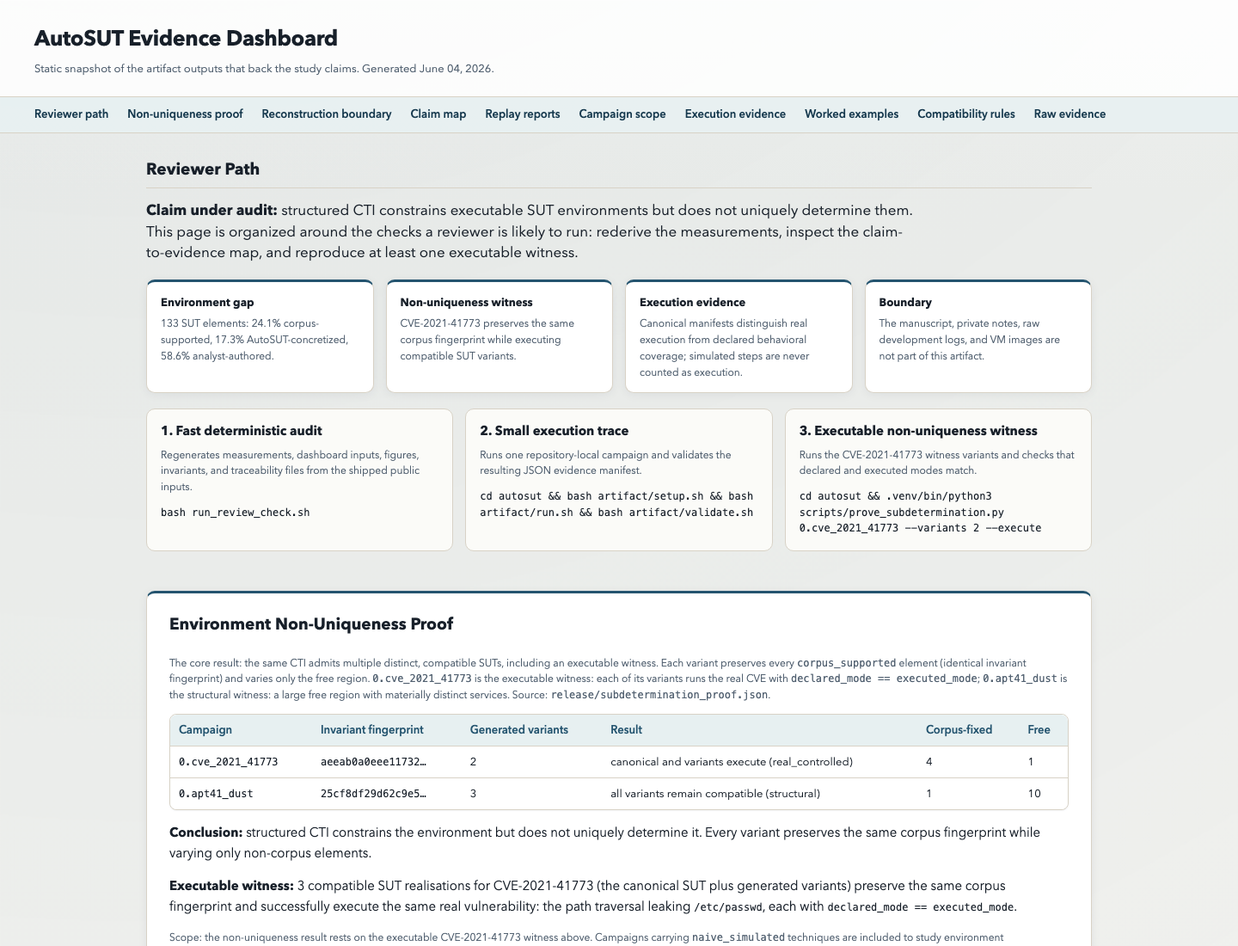
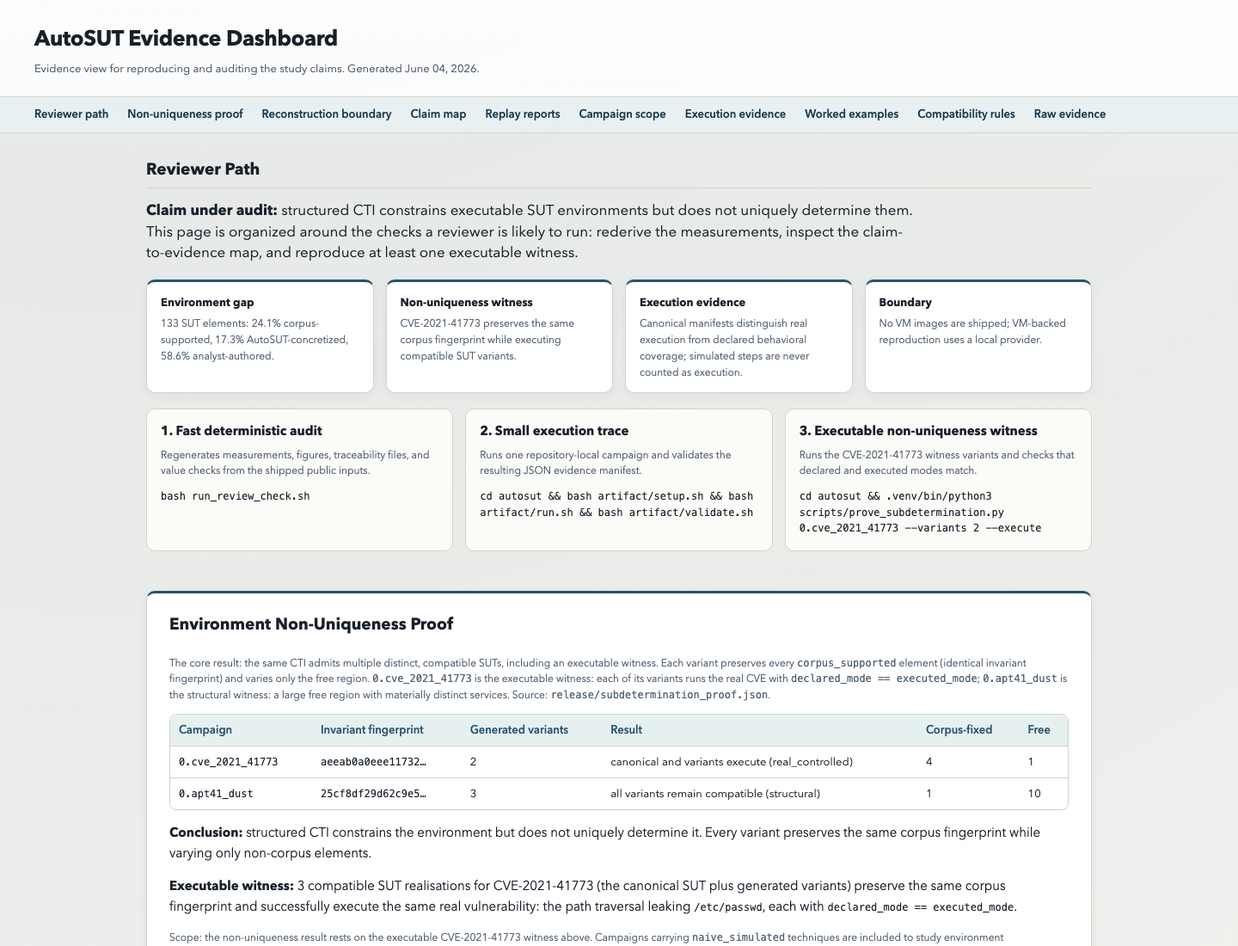
Tighten reviewer dashboard signal

diff --git a/autosut/release/dashboard/index.html b/autosut/release/dashboard/index.html
@@ -9,7 +9,7 @@
 <body>
 <header>
   <h1>AutoSUT Evidence Dashboard</h1>
-  <p>Static snapshot of the artifact outputs that back the study claims.
+  <p>Evidence view for reproducing and auditing the study claims.
      Generated June 04, 2026.</p>
 </header>
 <nav>
@@ -52,15 +52,15 @@
     </div>
     <div class='overview-card'>
       <strong>Boundary</strong>
-      <span>The manuscript, private notes, raw development logs, and VM images
-        are not part of this artifact.</span>
+      <span>No VM images are shipped; VM-backed reproduction uses a local
+        provider.</span>
     </div>
   </div>
   <div class='recipe-grid'>
     <div class='recipe-card'>
       <strong>1. Fast deterministic audit</strong>
-      <p>Regenerates measurements, dashboard inputs, figures, invariants, and
-        traceability files from the shipped public inputs.</p>
+      <p>Regenerates measurements, figures, traceability files, and value
+        checks from the shipped public inputs.</p>
       <code>bash run_review_check.sh</code>
     </div>
     <div class='recipe-card'>
@@ -96,15 +96,15 @@
     the executable environment; the rest must be reconstructed. Every concrete
     SUT element is tagged by where it came from, then rolled up into a dimension
     &times; source table: the fixed (corpus) vs free (reconstructed) partition
-    that the non-uniqueness result exploits. Computed live from <code>orchestrator/catalog.py</code>
-    (deterministic, no live run required).</p>
-  <p class='lead'>Of the <strong>133</strong> concrete SUT elements materialised across <strong>19</strong> campaign SUT profiles, <strong>24.1%</strong> is anchored in the CTI corpus, <strong>17.3%</strong> is an AutoSUT concretization of an under-specified corpus signal, and <strong>58.6%</strong> is an explicit analyst lab choice the corpus does not constrain.</p><h3>Dimension &times; source (global)</h3><p class='muted'>Each tagged element belongs to exactly one dimension. This is the environment-gap measurement: dimension by dimension, how much of the executable environment public cyber knowledge actually supports.</p><div class='table-wrap'><table><thead><tr><th>Dimension</th><th>Corpus</th><th>AutoSUT</th><th>Analyst</th><th>Total</th></tr></thead><tbody><tr><td class=''>Platform</td><td class='numeric'>25</td><td class='numeric'>0</td><td class='numeric'>0</td><td class='numeric'>25</td></tr><tr><td class=''>Software</td><td class='numeric'>1</td><td class='numeric'>0</td><td class='numeric'>19</td><td class='numeric'>20</td></tr><tr><td class=''>Vulnerability</td><td class='numeric'>2</td><td class='numeric'>1</td><td class='numeric'>0</td><td class='numeric'>3</td></tr><tr><td class=''>Credentials</td><td class='numeric'>1</td><td class='numeric'>21</td><td class='numeric'>0</td><td class='numeric'>22</td></tr><tr><td class=''>Exposures</td><td class='numeric'>3</td><td class='numeric'>1</td><td class='numeric'>24</td><td class='numeric'>28</td></tr><tr><td class=''>Artifacts</td><td class='numeric'>0</td><td class='numeric'>0</td><td class='numeric'>32</td><td class='numeric'>32</td></tr><tr><td class=''>Topology</td><td class='numeric'>0</td><td class='numeric'>0</td><td class='numeric'>3</td><td class='numeric'>3</td></tr><tr><td class=''>All</td><td class='numeric'>32 (24.1%)</td><td class='numeric'>23 (17.3%)</td><td class='numeric'>78 (58.6%)</td><td class='numeric'>133</td></tr></tbody></table></div><h3>Per-campaign breakdown</h3><div class='table-wrap'><table><thead><tr><th>Campaign</th><th>Elements</th><th>Corpus</th><th>AutoSUT</th><th>Analyst</th></tr></thead><tbody><tr><td class=''>0.shadowray</td><td class='numeric'>6</td><td class='numeric'>4 (66.7%)</td><td class='numeric'>0 (0.0%)</td><td class='numeric'>2 (33.3%)</td></tr><tr><td class=''>0.c0010</td><td class='numeric'>8</td><td class='numeric'>1 (12.5%)</td><td class='numeric'>1 (12.5%)</td><td class='numeric'>6 (75.0%)</td></tr><tr><td class=''>0.c0011</td><td class='numeric'>7</td><td class='numeric'>1 (14.3%)</td><td class='numeric'>1 (14.3%)</td><td class='numeric'>5 (71.4%)</td></tr><tr><td class=''>0.c0012</td><td class='numeric'>4</td><td class='numeric'>1 (25.0%)</td><td class='numeric'>1 (25.0%)</td><td class='numeric'>2 (50.0%)</td></tr><tr><td class=''>0.c0013</td><td class='numeric'>6</td><td class='numeric'>1 (16.7%)</td><td class='numeric'>1 (16.7%)</td><td class='numeric'>4 (66.7%)</td></tr><tr><td class=''>0.c0015</td><td class='numeric'>6</td><td class='numeric'>1 (16.7%)</td><td class='numeric'>1 (16.7%)</td><td class='numeric'>4 (66.7%)</td></tr><tr><td class=''>0.c0017</td><td class='numeric'>5</td><td class='numeric'>1 (20.0%)</td><td class='numeric'>1 (20.0%)</td><td class='numeric'>3 (60.0%)</td></tr><tr><td class=''>0.c0026</td><td class='numeric'>6</td><td class='numeric'>1 (16.7%)</td><td class='numeric'>1 (16.7%)</td><td class='numeric'>4 (66.7%)</td></tr><tr><td class=''>0.apt41_dust</td><td class='numeric'>11</td><td class='numeric'>1 (9.1%)</td><td class='numeric'>1 (9.1%)</td><td class='numeric'>9 (81.8%)</td></tr><tr><td class=''>0.apt41_dust_full</td><td class='numeric'>6</td><td class='numeric'>1 (16.7%)</td><td class='numeric'>1 (16.7%)</td><td class='numeric'>4 (66.7%)</td></tr><tr><td class=''>0.costaricto</td><td class='numeric'>9</td><td class='numeric'>1 (11.1%)</td><td class='numeric'>1 (11.1%)</td><td class='numeric'>7 (77.8%)</td></tr><tr><td class=''>0.outer_space</td><td class='numeric'>9</td><td class='numeric'>1 (11.1%)</td><td class='numeric'>1 (11.1%)</td><td class='numeric'>7 (77.8%)</td></tr><tr><td class=''>0.operation_midnighteclipse</td><td class='numeric'>5</td><td class='numeric'>3 (60.0%)</td><td class='numeric'>1 (20.0%)</td><td class='numeric'>1 (20.0%)</td></tr><tr><td class=''>0.salesforce_data_exfiltration</td><td class='numeric'>6</td><td class='numeric'>1 (16.7%)</td><td class='numeric'>4 (66.7%)</td><td class='numeric'>1 (16.7%)</td></tr><tr><td class=''>0.caldera_linux_demo</td><td class='numeric'>7</td><td class='numeric'>1 (14.3%)</td><td class='numeric'>1 (14.3%)</td><td class='numeric'>5 (71.4%)</td></tr><tr><td class=''>0.fin6_emulation</td><td class='numeric'>7</td><td class='numeric'>1 (14.3%)</td><td class='numeric'>1 (14.3%)</td><td class='numeric'>5 (71.4%)</td></tr><tr><td class=''>0.dmz_segmentation_demo</td><td class='numeric'>13</td><td class='numeric'>4 (30.8%)</td><td class='numeric'>3 (23.1%)</td><td class='numeric'>6 (46.2%)</td></tr><tr><td class=''>0.pivot_demo</td><td class='numeric'>7</td><td class='numeric'>3 (42.9%)</td><td class='numeric'>2 (28.6%)</td><td class='numeric'>2 (28.6%)</td></tr><tr><td class=''>0.cve_2021_41773</td><td class='numeric'>5</td><td class='numeric'>4 (80.0%)</td><td class='numeric'>0 (0.0%)</td><td class='numeric'>1 (20.0%)</td></tr></tbody></table></div><p class='muted'><strong>Corpus</strong> = anchored in CTI/NVD/ATT&amp;CK evidence (a CVE-pinned product+version, the disclosed CVE, the documented exploit port, or the OS platform family). <strong>AutoSUT</strong> = AutoSUT concretized an under-specified corpus signal (the corpus implies <em>a</em> credential exists; AutoSUT picks the literal pair) or a named-product surrogate with no disclosed CVE. <strong>Analyst</strong> = no corpus signal; pure lab construction (generic inherited services, topology zones, decoy files). Provenance is <strong>counted, never computed</strong>: the aggregator only tallies tags set in <code>catalog.py</code>; the sole derived tags are definitional (a real CVE id <em>is</em> corpus evidence; an OS family <em>is</em> an ATT&amp;CK platform).</p><p class='muted'>Full artifacts (same computation): <a href='data/ENVIRONMENT_PROVENANCE.md'><code>ENVIRONMENT_PROVENANCE.md</code></a>, <a href='data/support_matrix.csv'><code>support_matrix.csv</code></a>, <a href='data/environment_provenance.json'><code>environment_provenance.json</code></a> (per-element audit trail; every count traces to one concrete SUT element).</p>
+    that the non-uniqueness result exploits. Computed deterministically from
+    shipped provenance annotations; no live campaign run is required.</p>
+  <p class='lead'>Of the <strong>133</strong> concrete SUT elements materialised across <strong>19</strong> campaign SUT profiles, <strong>24.1%</strong> is anchored in the CTI corpus, <strong>17.3%</strong> is an AutoSUT concretization of an under-specified corpus signal, and <strong>58.6%</strong> is an explicit analyst lab choice the corpus does not constrain.</p><h3>Dimension &times; source (global)</h3><p class='muted'>Each tagged element belongs to exactly one dimension. This is the environment-gap measurement: dimension by dimension, how much of the executable environment public cyber knowledge actually supports.</p><div class='table-wrap'><table><thead><tr><th>Dimension</th><th>Corpus</th><th>AutoSUT</th><th>Analyst</th><th>Total</th></tr></thead><tbody><tr><td class=''>Platform</td><td class='numeric'>25</td><td class='numeric'>0</td><td class='numeric'>0</td><td class='numeric'>25</td></tr><tr><td class=''>Software</td><td class='numeric'>1</td><td class='numeric'>0</td><td class='numeric'>19</td><td class='numeric'>20</td></tr><tr><td class=''>Vulnerability</td><td class='numeric'>2</td><td class='numeric'>1</td><td class='numeric'>0</td><td class='numeric'>3</td></tr><tr><td class=''>Credentials</td><td class='numeric'>1</td><td class='numeric'>21</td><td class='numeric'>0</td><td class='numeric'>22</td></tr><tr><td class=''>Exposures</td><td class='numeric'>3</td><td class='numeric'>1</td><td class='numeric'>24</td><td class='numeric'>28</td></tr><tr><td class=''>Artifacts</td><td class='numeric'>0</td><td class='numeric'>0</td><td class='numeric'>32</td><td class='numeric'>32</td></tr><tr><td class=''>Topology</td><td class='numeric'>0</td><td class='numeric'>0</td><td class='numeric'>3</td><td class='numeric'>3</td></tr><tr><td class=''>All</td><td class='numeric'>32 (24.1%)</td><td class='numeric'>23 (17.3%)</td><td class='numeric'>78 (58.6%)</td><td class='numeric'>133</td></tr></tbody></table></div><h3>Per-campaign breakdown</h3><div class='table-wrap'><table><thead><tr><th>Campaign</th><th>Elements</th><th>Corpus</th><th>AutoSUT</th><th>Analyst</th></tr></thead><tbody><tr><td class=''>0.shadowray</td><td class='numeric'>6</td><td class='numeric'>4 (66.7%)</td><td class='numeric'>0 (0.0%)</td><td class='numeric'>2 (33.3%)</td></tr><tr><td class=''>0.c0010</td><td class='numeric'>8</td><td class='numeric'>1 (12.5%)</td><td class='numeric'>1 (12.5%)</td><td class='numeric'>6 (75.0%)</td></tr><tr><td class=''>0.c0011</td><td class='numeric'>7</td><td class='numeric'>1 (14.3%)</td><td class='numeric'>1 (14.3%)</td><td class='numeric'>5 (71.4%)</td></tr><tr><td class=''>0.c0012</td><td class='numeric'>4</td><td class='numeric'>1 (25.0%)</td><td class='numeric'>1 (25.0%)</td><td class='numeric'>2 (50.0%)</td></tr><tr><td class=''>0.c0013</td><td class='numeric'>6</td><td class='numeric'>1 (16.7%)</td><td class='numeric'>1 (16.7%)</td><td class='numeric'>4 (66.7%)</td></tr><tr><td class=''>0.c0015</td><td class='numeric'>6</td><td class='numeric'>1 (16.7%)</td><td class='numeric'>1 (16.7%)</td><td class='numeric'>4 (66.7%)</td></tr><tr><td class=''>0.c0017</td><td class='numeric'>5</td><td class='numeric'>1 (20.0%)</td><td class='numeric'>1 (20.0%)</td><td class='numeric'>3 (60.0%)</td></tr><tr><td class=''>0.c0026</td><td class='numeric'>6</td><td class='numeric'>1 (16.7%)</td><td class='numeric'>1 (16.7%)</td><td class='numeric'>4 (66.7%)</td></tr><tr><td class=''>0.apt41_dust</td><td class='numeric'>11</td><td class='numeric'>1 (9.1%)</td><td class='numeric'>1 (9.1%)</td><td class='numeric'>9 (81.8%)</td></tr><tr><td class=''>0.apt41_dust_full</td><td class='numeric'>6</td><td class='numeric'>1 (16.7%)</td><td class='numeric'>1 (16.7%)</td><td class='numeric'>4 (66.7%)</td></tr><tr><td class=''>0.costaricto</td><td class='numeric'>9</td><td class='numeric'>1 (11.1%)</td><td class='numeric'>1 (11.1%)</td><td class='numeric'>7 (77.8%)</td></tr><tr><td class=''>0.outer_space</td><td class='numeric'>9</td><td class='numeric'>1 (11.1%)</td><td class='numeric'>1 (11.1%)</td><td class='numeric'>7 (77.8%)</td></tr><tr><td class=''>0.operation_midnighteclipse</td><td class='numeric'>5</td><td class='numeric'>3 (60.0%)</td><td class='numeric'>1 (20.0%)</td><td class='numeric'>1 (20.0%)</td></tr><tr><td class=''>0.salesforce_data_exfiltration</td><td class='numeric'>6</td><td class='numeric'>1 (16.7%)</td><td class='numeric'>4 (66.7%)</td><td class='numeric'>1 (16.7%)</td></tr><tr><td class=''>0.caldera_linux_demo</td><td class='numeric'>7</td><td class='numeric'>1 (14.3%)</td><td class='numeric'>1 (14.3%)</td><td class='numeric'>5 (71.4%)</td></tr><tr><td class=''>0.fin6_emulation</td><td class='numeric'>7</td><td class='numeric'>1 (14.3%)</td><td class='numeric'>1 (14.3%)</td><td class='numeric'>5 (71.4%)</td></tr><tr><td class=''>0.dmz_segmentation_demo</td><td class='numeric'>13</td><td class='numeric'>4 (30.8%)</td><td class='numeric'>3 (23.1%)</td><td class='numeric'>6 (46.2%)</td></tr><tr><td class=''>0.pivot_demo</td><td class='numeric'>7</td><td class='numeric'>3 (42.9%)</td><td class='numeric'>2 (28.6%)</td><td class='numeric'>2 (28.6%)</td></tr><tr><td class=''>0.cve_2021_41773</td><td class='numeric'>5</td><td class='numeric'>4 (80.0%)</td><td class='numeric'>0 (0.0%)</td><td class='numeric'>1 (20.0%)</td></tr></tbody></table></div><p class='muted'><strong>Corpus</strong> = anchored in CTI/NVD/ATT&amp;CK evidence (a CVE-pinned product+version, the disclosed CVE, the documented exploit port, or the OS platform family). <strong>AutoSUT</strong> = AutoSUT concretized an under-specified corpus signal (the corpus implies <em>a</em> credential exists; AutoSUT picks the literal pair) or a named-product surrogate with no disclosed CVE. <strong>Analyst</strong> = no corpus signal; pure lab construction (generic inherited services, topology zones, decoy files). Provenance tags are explicit: this dashboard aggregates those tags and does not infer new provenance categories. The only derived tags are definitional (a real CVE id <em>is</em> corpus evidence; an OS family <em>is</em> an ATT&amp;CK platform).</p><p class='muted'>Audit files: <a href='data/ENVIRONMENT_PROVENANCE.md'><code>ENVIRONMENT_PROVENANCE.md</code></a>, <a href='data/support_matrix.csv'><code>support_matrix.csv</code></a>, <a href='data/environment_provenance.json'><code>environment_provenance.json</code></a> (per-element audit trail; every count traces to one concrete SUT element).</p>
 </section>
 <section id='findings'>
   <h2>Claim-To-Evidence Map</h2>
-  <p class='muted'>Each card shows a study claim, the macros that produce its
-    numbers, and the CSV files that back the macros. Click any file name to
-    open the raw evidence under <code>data/</code>.</p>
+  <p class='muted'>Each card shows a study claim, the reported values, and the
+    CSV files that back them. Click any file name to open the raw evidence
+    under <code>data/</code>.</p>
 
 <div class='finding'>
   <div class='finding-head'>
@@ -173,20 +173,16 @@
 </section>
 <section id='replay'>
   <h2>End-to-End Replay Reports</h2>
-  <p class='muted'>These are the batch-run reports a reviewer gets when
-    re-executing implemented campaigns. They are separate from curated
-    release evidence: a replay report is the latest local execution result,
-    while the audited-run section below shows the stable evidence bundled for
-    claim inspection. The dashboard separates publishable complete runs from
-    development attempts: audited complete runs back the reviewer-facing claim
-    surface, while replay scripts emit incremental TSV and JSON reports for new
-    executions.</p>
+  <p class='muted'>Replay reports summarize completed campaign reruns. They are
+    separate from the audited runs below: reruns show what a reviewer executed
+    locally, while audited runs are the stable evidence shipped for claim
+    inspection. New reruns emit TSV and JSON reports for inspection.</p>
   <div class='table-wrap wide'><table><thead><tr><th>Report</th><th>Status</th><th>Campaigns</th><th>Planned steps</th><th>Elapsed</th><th>TSV</th><th>JSON</th></tr></thead><tbody><tr><td class='mono'>orchestrated_replay_full_19.tsv</td><td>PASS</td><td class='numeric'>19</td><td class='numeric'>165/165</td><td class='numeric'>1402.5s</td><td><a href='data/replay_reports/orchestrated_replay_full_19.tsv' title='data/replay_reports/orchestrated_replay_full_19.tsv'><code>TSV</code></a></td><td><a href='data/replay_reports/orchestrated_replay_full_19.json' title='data/replay_reports/orchestrated_replay_full_19.json'><code>JSON</code></a></td></tr></tbody></table></div>
 </section>
 <section id='scope'>
   <h2>Campaign Scope Sanity Check</h2>
   <p class='muted'>This table prevents a common denominator error. AutoSUT
-    replay counts are planned campaign/SUT steps from the artifact manifest;
+    replay counts are planned campaign/SUT steps from released manifests;
     they are not automatically the full set of ATT&amp;CK techniques linked to
     a MITRE campaign object. For Cxxxx runs, the table compares the planned
     replay against the frozen Enterprise ATT&amp;CK bundle. Source:
@@ -198,9 +194,9 @@
   <p class='muted'>
     Only audited complete runs are shown here: every planned step completed
     and the manifest, summary, and fidelity rubric are all present. Selection
-    criteria are copied into <code>data/canonical_runs.json</code>. Partial,
-    empty, or superseded development runs are excluded, so experimental and
-    publishable evidence are never mixed. Execution is split into realism tiers:
+    criteria are recorded in <code>data/canonical_runs.json</code>. Partial,
+    empty, or superseded runs are excluded and are not used for claims.
+    Execution is split into realism tiers:
     <code>real_controlled</code>, <code>caldera_driven</code>, and
     <code>atomic_red_team</code> are real executions (a command ran, an
     operation fired); <strong>simulated</strong> is declared behavioral
@@ -208,7 +204,7 @@
   </p>
   <p class='muted'>What each mode lets a reviewer conclude:</p>
   <div class='table-wrap wide'><table><thead><tr><th>Execution mode</th><th>Tier</th><th>Claim it licenses</th></tr></thead><tbody><tr><td class='mono'>real_controlled</td><td class=''>real</td><td class=''>A bounded command, procedure, or vulnerability mechanism ran against the live SUT and left a verifiable effect. CVE witnesses identify when that effect is an actual exploit.</td></tr><tr><td class='mono'>caldera_driven</td><td class=''>real</td><td class=''>The adversary procedure was dispatched by the MITRE Caldera C2 and the operation fired against the SUT.</td></tr><tr><td class='mono'>atomic_red_team</td><td class=''>real</td><td class=''>The technique ran as a mediated Atomic Red Team test.</td></tr><tr><td class='mono'>naive_simulated</td><td class=''>declared coverage</td><td class=''>Behavioral representation only: the effect is asserted, not executed. Never counted as execution evidence.</td></tr></tbody></table></div>
-  <p class='realism-summary'>Across these <strong>19</strong> canonical run(s): <strong>89/165</strong> planned steps are real executions (real_controlled / caldera_driven / atomic_red_team), and <strong>76/165</strong> are <span class='sim'>simulated</span>: recorded as declared coverage, not counted as execution evidence.</p><article class='run-card'><h3>0.apt41_dust <span class='muted'>· 0.apt41_dust_20260603_193334</span></h3><p><strong>23/23</strong> planned steps completed.</p><p><strong>Execution realism:</strong> <strong>14/23</strong> really executed <span class='muted'>(atomic_red_team: 6, real_controlled: 8)</span> &middot; <span class='sim'>9/23 simulated</span> <span class='muted'>(declared coverage, not executed)</span></p><p><strong>Fidelity rubric</strong> (five-question, per technique): adapted: 14, inspired: 9; 23/23 consistent</p><p class='muted'>Evidence manifest: <a href='data/evidence/0.apt41_dust_20260603_193334/manifest.json'><code>data/evidence/0.apt41_dust_20260603_193334/manifest.json</code></a></p></article>
+  <p class='realism-summary'>Across these <strong>19</strong> audited run(s): <strong>89/165</strong> planned steps are real executions (real_controlled / caldera_driven / atomic_red_team), and <strong>76/165</strong> are <span class='sim'>simulated</span>: recorded as declared coverage, not counted as execution evidence.</p><article class='run-card'><h3>0.apt41_dust <span class='muted'>· 0.apt41_dust_20260603_193334</span></h3><p><strong>23/23</strong> planned steps completed.</p><p><strong>Execution realism:</strong> <strong>14/23</strong> really executed <span class='muted'>(atomic_red_team: 6, real_controlled: 8)</span> &middot; <span class='sim'>9/23 simulated</span> <span class='muted'>(declared coverage, not executed)</span></p><p><strong>Fidelity rubric</strong> (five-question, per technique): adapted: 14, inspired: 9; 23/23 consistent</p><p class='muted'>Evidence manifest: <a href='data/evidence/0.apt41_dust_20260603_193334/manifest.json'><code>data/evidence/0.apt41_dust_20260603_193334/manifest.json</code></a></p></article>
 <article class='run-card'><h3>0.apt41_dust_full <span class='muted'>· 0.apt41_dust_full_20260603_193427</span></h3><p><strong>10/10</strong> planned steps completed.</p><p><strong>Execution realism:</strong> <strong>9/10</strong> really executed <span class='muted'>(atomic_red_team: 5, real_controlled: 4)</span> &middot; <span class='sim'>1/10 simulated</span> <span class='muted'>(declared coverage, not executed)</span></p><p><strong>Fidelity rubric</strong> (five-question, per technique): adapted: 9, inspired: 1; 10/10 consistent</p><p class='muted'>Evidence manifest: <a href='data/evidence/0.apt41_dust_full_20260603_193427/manifest.json'><code>data/evidence/0.apt41_dust_full_20260603_193427/manifest.json</code></a></p></article>
 <article class='run-card'><h3>0.c0010 <span class='muted'>· 0.c0010_20260603_192801</span></h3><p><strong>9/9</strong> planned steps completed.</p><p><strong>Execution realism:</strong> <strong>3/9</strong> really executed <span class='muted'>(atomic_red_team: 1, real_controlled: 2)</span> &middot; <span class='sim'>6/9 simulated</span> <span class='muted'>(declared coverage, not executed)</span></p><p><strong>Fidelity rubric</strong> (five-question, per technique): adapted: 3, inspired: 6; 9/9 consistent</p><p class='muted'>Evidence manifest: <a href='data/evidence/0.c0010_20260603_192801/manifest.json'><code>data/evidence/0.c0010_20260603_192801/manifest.json</code></a></p></article>
 <article class='run-card'><h3>0.c0011 <span class='muted'>· 0.c0011_20260603_192838</span></h3><p><strong>11/11</strong> planned steps completed.</p><p><strong>Execution realism:</strong> <strong>2/11</strong> really executed <span class='muted'>(real_controlled: 2)</span> &middot; <span class='sim'>9/11 simulated</span> <span class='muted'>(declared coverage, not executed)</span></p><p><strong>Fidelity rubric</strong> (five-question, per technique): adapted: 2, inspired: 9; 11/11 consistent</p><p class='muted'>Evidence manifest: <a href='data/evidence/0.c0011_20260603_192838/manifest.json'><code>data/evidence/0.c0011_20260603_192838/manifest.json</code></a></p></article>
@@ -249,7 +245,7 @@
 </section>
 </main>
 <footer>
-  Reproduce this dashboard:
+  Dashboard regeneration:
   <code>python3 scripts/build_reviewer_dashboard.py</code>.
   Validate every macro: <code>bash run_review_check.sh</code>.
 </footer>

diff --git a/autosut/scripts/build_reviewer_dashboard.py b/autosut/scripts/build_reviewer_dashboard.py
@@ -542,15 +542,15 @@ def render_audit_overview(merged) -> str:
     </div>
     <div class='overview-card'>
       <strong>Boundary</strong>
-      <span>The manuscript, private notes, raw development logs, and VM images
-        are not part of this artifact.</span>
+      <span>No VM images are shipped; VM-backed reproduction uses a local
+        provider.</span>
     </div>
   </div>
   <div class='recipe-grid'>
     <div class='recipe-card'>
       <strong>1. Fast deterministic audit</strong>
-      <p>Regenerates measurements, dashboard inputs, figures, invariants, and
-        traceability files from the shipped public inputs.</p>
+      <p>Regenerates measurements, figures, traceability files, and value
+        checks from the shipped public inputs.</p>
       <code>bash run_review_check.sh</code>
     </div>
     <div class='recipe-card'>
@@ -649,15 +649,15 @@ def render_provenance_summary(summaries: list, merged) -> str:
         "<em>a</em> credential exists; AutoSUT picks the literal pair) or a "
         "named-product surrogate with no disclosed CVE. <strong>Analyst</strong> = "
         "no corpus signal; pure lab construction (generic inherited services, "
-        "topology zones, decoy files). Provenance is <strong>counted, never "
-        "computed</strong>: the aggregator only tallies tags set in "
-        "<code>catalog.py</code>; the sole derived tags are definitional (a real "
-        "CVE id <em>is</em> corpus evidence; an OS family <em>is</em> an ATT&amp;CK "
+        "topology zones, decoy files). Provenance tags are explicit: this "
+        "dashboard aggregates those tags and does not infer new provenance "
+        "categories. The only derived tags are definitional (a real CVE id "
+        "<em>is</em> corpus evidence; an OS family <em>is</em> an ATT&amp;CK "
         "platform).</p>"
     )
 
     downloads = (
-        "<p class='muted'>Full artifacts (same computation): "
+        "<p class='muted'>Audit files: "
         "<a href='data/ENVIRONMENT_PROVENANCE.md'><code>ENVIRONMENT_PROVENANCE.md</code></a>, "
         "<a href='data/support_matrix.csv'><code>support_matrix.csv</code></a>, "
         "<a href='data/environment_provenance.json'><code>environment_provenance.json</code></a> "
@@ -1241,7 +1241,7 @@ def render_execution_tour() -> str:
     # real-vs-simulated split before any per-campaign success count.
     banner = (
         "<p class='realism-summary'>Across these "
-        f"<strong>{len(cards)}</strong> canonical run(s): "
+        f"<strong>{len(cards)}</strong> audited run(s): "
         f"<strong>{agg_real}/{agg_total}</strong> planned steps are real executions "
         "(real_controlled / caldera_driven / atomic_red_team)"
     )
@@ -1333,7 +1333,7 @@ def render_html(macros: dict[str, str], provenance_section: str, merged) -> str:
 <body>
 <header>
   <h1>AutoSUT Evidence Dashboard</h1>
-  <p>Static snapshot of the artifact outputs that back the study claims.
+  <p>Evidence view for reproducing and auditing the study claims.
      Generated {datetime.now(timezone.utc).strftime('%B %d, %Y')}.</p>
 </header>
 <nav>
@@ -1369,33 +1369,29 @@ def render_html(macros: dict[str, str], provenance_section: str, merged) -> str:
     the executable environment; the rest must be reconstructed. Every concrete
     SUT element is tagged by where it came from, then rolled up into a dimension
     &times; source table: the fixed (corpus) vs free (reconstructed) partition
-    that the non-uniqueness result exploits. Computed live from <code>orchestrator/catalog.py</code>
-    (deterministic, no live run required).</p>
+    that the non-uniqueness result exploits. Computed deterministically from
+    shipped provenance annotations; no live campaign run is required.</p>
   {provenance_section}
 </section>
 <section id='findings'>
   <h2>Claim-To-Evidence Map</h2>
-  <p class='muted'>Each card shows a study claim, the macros that produce its
-    numbers, and the CSV files that back the macros. Click any file name to
-    open the raw evidence under <code>data/</code>.</p>
+  <p class='muted'>Each card shows a study claim, the reported values, and the
+    CSV files that back them. Click any file name to open the raw evidence
+    under <code>data/</code>.</p>
 {render_findings(macros)}
 </section>
 <section id='replay'>
   <h2>End-to-End Replay Reports</h2>
-  <p class='muted'>These are the batch-run reports a reviewer gets when
-    re-executing implemented campaigns. They are separate from curated
-    release evidence: a replay report is the latest local execution result,
-    while the audited-run section below shows the stable evidence bundled for
-    claim inspection. The dashboard separates publishable complete runs from
-    development attempts: audited complete runs back the reviewer-facing claim
-    surface, while replay scripts emit incremental TSV and JSON reports for new
-    executions.</p>
+  <p class='muted'>Replay reports summarize completed campaign reruns. They are
+    separate from the audited runs below: reruns show what a reviewer executed
+    locally, while audited runs are the stable evidence shipped for claim
+    inspection. New reruns emit TSV and JSON reports for inspection.</p>
   {render_replay_reports()}
 </section>
 <section id='scope'>
   <h2>Campaign Scope Sanity Check</h2>
   <p class='muted'>This table prevents a common denominator error. AutoSUT
-    replay counts are planned campaign/SUT steps from the artifact manifest;
+    replay counts are planned campaign/SUT steps from released manifests;
     they are not automatically the full set of ATT&amp;CK techniques linked to
     a MITRE campaign object. For Cxxxx runs, the table compares the planned
     replay against the frozen Enterprise ATT&amp;CK bundle. Source:
@@ -1407,9 +1403,9 @@ def render_html(macros: dict[str, str], provenance_section: str, merged) -> str:
   <p class='muted'>
     Only audited complete runs are shown here: every planned step completed
     and the manifest, summary, and fidelity rubric are all present. Selection
-    criteria are copied into <code>data/canonical_runs.json</code>. Partial,
-    empty, or superseded development runs are excluded, so experimental and
-    publishable evidence are never mixed. Execution is split into realism tiers:
+    criteria are recorded in <code>data/canonical_runs.json</code>. Partial,
+    empty, or superseded runs are excluded and are not used for claims.
+    Execution is split into realism tiers:
     <code>real_controlled</code>, <code>caldera_driven</code>, and
     <code>atomic_red_team</code> are real executions (a command ran, an
     operation fired); <strong>simulated</strong> is declared behavioral
@@ -1440,7 +1436,7 @@ def render_html(macros: dict[str, str], provenance_section: str, merged) -> str:
 </section>
 </main>
 <footer>
-  Reproduce this dashboard:
+  Dashboard regeneration:
   <code>python3 scripts/build_reviewer_dashboard.py</code>.
   Validate every macro: <code>bash run_review_check.sh</code>.
 </footer>

diff --git a/ARTIFACT_MANIFEST.md b/ARTIFACT_MANIFEST.md
@@ -7,7 +7,7 @@
 | --- | ---: | --- |
[7 lines of base64/hex data omitted]
@@ -270,8 +270,8 @@
[10 lines of base64/hex data omitted]
@@ -298,7 +298,7 @@
[8 lines of base64/hex data omitted]
@@ -503,7 +503,7 @@
[8 lines of base64/hex data omitted]
@@ -513,8 +513,8 @@
[10 lines of base64/hex data omitted]
@@ -555,7 +555,7 @@
[8 lines of base64/hex data omitted]

diff --git a/README.md b/README.md
@@ -13,9 +13,7 @@ bash run_review_check.sh
 
 The command reruns the measurement pipeline from version-pinned public input
 bundles, regenerates figures and traceability outputs, and validates
-numeric invariants. The study manuscript itself is intentionally
-not included in this artifact; this repository is the independent
-evidence and reproduction package.
+numeric invariants. This ZIP is the evidence and reproduction package.
 
 Expected runtime on a laptop-class machine is about one minute once
 Python and LaTeX dependencies are available. The command does not

diff --git a/autosut/release/dashboard/data/ENVIRONMENT_PROVENANCE.md b/autosut/release/dashboard/data/ENVIRONMENT_PROVENANCE.md
@@ -1,6 +1,6 @@
 # Environment Provenance
 
-- Generated at: `2026-06-03T22:54:46`
+- Generated at: `2026-06-04T10:29:11`
 - Campaigns measured: `19`
 - Total tagged SUT elements: `133`
 - Policy: 3-category hybrid (`corpus_supported` / `autosut_concretized` / `analyst_authored`).

diff --git a/autosut/release/provenance/ENVIRONMENT_PROVENANCE.md b/autosut/release/provenance/ENVIRONMENT_PROVENANCE.md
@@ -1,6 +1,6 @@
 # Environment Provenance
 
-- Generated at: `2026-06-03T22:54:45`
+- Generated at: `2026-06-04T10:29:11`
 - Campaigns measured: `19`
 - Total tagged SUT elements: `133`
 - Policy: 3-category hybrid (`corpus_supported` / `autosut_concretized` / `analyst_authored`).
